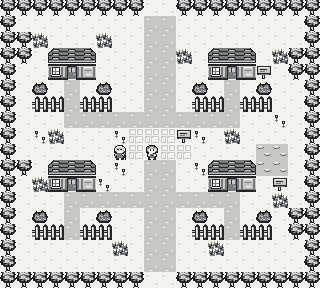
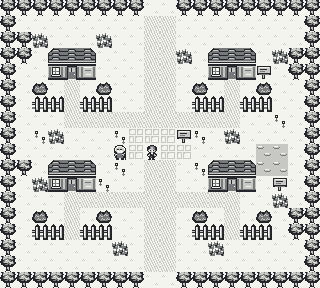
Redraw Echo characters and soften Wurzelheim style study

Changed region(s): [[0.1875, 0.0312, 0.75, 0.4688], [0.1875, 0.5, 0.75, 0.9688]]

diff --git a/echo-chroniken/docs/gb-classic/klassik-demo.html b/echo-chroniken/docs/gb-classic/klassik-demo.html
@@ -1,6 +1,6 @@
 <!doctype html><html lang="de"><head><meta charset="utf-8" />
 <meta name="viewport" content="width=device-width,initial-scale=1,minimum-scale=1" />
-<title>Echo-Chroniken · Game Boy Grafiktest V6</title>
+<title>Echo-Chroniken · Game Boy Grafiktest V7</title>
 <style>
 :root{color-scheme:dark}
 *{box-sizing:border-box}
@@ -30,7 +30,7 @@ h1{font-size:18px}select,button{padding:9px 10px}}
 :fullscreen body{max-width:none;width:100vw;height:100vh}
 :fullscreen #view{max-height:76vh}
 </style></head><body>
-<h1>🎮 Echo-Chroniken · Game Boy · Grafik V6</h1>
+<h1>🎮 Echo-Chroniken · Game Boy · Grafik V7</h1>
 <div class="subtitle">Stiltest, noch nicht das Hauptspiel · 4 Graustufen · feste 16px-Grafikbibliothek · Kamera folgt deiner Figur.</div>
 <div class="controls">
 <label for="scene">Karte:</label><select id="scene"></select>
@@ -58,10 +58,10 @@ h1{font-size:18px}select,button{padding:9px 10px}}
 'use strict';
 const DATA={"version":"1.0","scenes":{"Wurzelheim":{"width":20,"height":18,"rows":["44444444400444444444","40000000011000000004","44200020011000000004","440abc0001120abc0244","400efd0001100efd9044","40301030011030103004","40551550011055155004","40001111111111100B04","40B2000BCCC9B0200004","4000000xCyCC00006604","440abc0B0110Babc6604","402efdB001100efd0904","40001111111111100204","40301030011030103044","40551550011055155044","40000002011002000004","40000000011000000004","44444444400444444444"],"blocked":[[0,0],[1,0],[2,0],[3,0],[4,0],[5,0],[6,0],[7,0],[8,0],[11,0],[12,0],[13,0],[14,0],[15,0],[16,0],[17,0],[18,0],[19,0],[0,1],[19,1],[0,2],[1,2],[19,2],[0,3],[1,3],[3,3],[4,3],[5,3],[13,3],[14,3],[15,3],[18,3],[19,3],[0,4],[3,4],[5,4],[13,4],[15,4],[18,4],[19,4],[0,5],[2,5],[6,5],[12,5],[16,5],[19,5],[0,6],[2,6],[3,6],[5,6],[6,6],[12,6],[13,6],[15,6],[16,6],[19,6],[0,7],[19,7],[0,8],[19,8],[0,9],[16,9],[17,9],[19,9],[0,10],[1,10],[3,10],[4,10],[5,10],[13,10],[14,10],[15,10],[16,10],[17,10],[19,10],[0,11],[3,11],[5,11],[13,11],[15,11],[19,11],[0,12],[19,12],[0,13],[2,13],[6,13],[12,13],[16,13],[18,13],[19,13],[0,14],[2,14],[3,14],[5,14],[6,14],[12,14],[13,14],[15,14],[16,14],[18,14],[19,14],[0,15],[19,15],[0,16],[19,16],[0,17],[1,17],[2,17],[3,17],[4,17],[5,17],[6,17],[7,17],[8,17],[11,17],[12,17],[13,17],[14,17],[15,17],[16,17],[17,17],[18,17],[19,17]],"doorLinks":{"4,4":"Wohnhaus","14,4":"Heilstation","4,11":"Schmiede","14,11":"Laden"},"worldExits":{"north":"Route","south":"Route"}},"Route":{"width":20,"height":18,"rows":["44444444400444444444","44000000000000000044","44444400000000444444","44444400000000444444","44444400000000444444","44000222000000000044","44000222000022220044","44000222000022220044","44000000000022220044","4400000900000x000044","44000222000055500044","44000222000000008044","44444000000022204444","44444000000022204444","44444000000022204444","4400000000y000000044","44000000000000000044","44444444400444444444"],"blocked":[[0,0],[1,0],[2,0],[3,0],[4,0],[5,0],[6,0],[7,0],[8,0],[11,0],[12,0],[13,0],[14,0],[15,0],[16,0],[17,0],[18,0],[19,0],[0,1],[1,1],[18,1],[19,1],[0,2],[1,2],[2,2],[3,2],[4,2],[5,2],[14,2],[15,2],[16,2],[17,2],[18,2],[19,2],[0,3],[1,3],[2,3],[3,3],[4,3],[5,3],[14,3],[15,3],[16,3],[17,3],[18,3],[19,3],[0,4],[1,4],[2,4],[3,4],[4,4],[5,4],[14,4],[15,4],[16,4],[17,4],[18,4],[19,4],[0,5],[1,5],[18,5],[19,5],[0,6],[1,6],[18,6],[19,6],[0,7],[1,7],[18,7],[19,7],[0,8],[1,8],[18,8],[19,8],[0,9],[1,9],[18,9],[19,9],[0,10],[1,10],[12,10],[13,10],[14,10],[18,10],[19,10],[0,11],[1,11],[16,11],[18,11],[19,11],[0,12],[1,12],[2,12],[3,12],[4,12],[16,12],[17,12],[18,12],[19,12],[0,13],[1,13],[2,13],[3,13],[4,13],[16,13],[17,13],[18,13],[19,13],[0,14],[1,14],[2,14],[3,14],[4,14],[16,14],[17,14],[18,14],[19,14],[0,15],[1,15],[18,15],[19,15],[0,16],[1,16],[18,16],[19,16],[0,17],[1,17],[2,17],[3,17],[4,17],[5,17],[6,17],[7,17],[8,17],[11,17],[12,17],[13,17],[14,17],[15,17],[16,17],[17,17],[18,17],[19,17]]},"Laden":{"width":12,"height":9,"rows":["hhhhhhhhhhhh","hgiiiiiggxgh","hggggggjjjjh","hggggggggggh","hggiiggiiggh","hggggggggggh","hgggggyggggh","hggggggggggh","hhhhhhfhhhhh"],"blocked":[[0,0],[1,0],[2,0],[3,0],[4,0],[5,0],[6,0],[7,0],[8,0],[9,0],[10,0],[11,0],[0,1],[2,1],[3,1],[4,1],[5,1],[6,1],[11,1],[0,2],[7,2],[8,2],[9,2],[10,2],[11,2],[0,3],[11,3],[0,4],[3,4],[4,4],[7,4],[8,4],[11,4],[0,5],[11,5],[0,6],[11,6],[0,7],[11,7],[0,8],[1,8],[2,8],[3,8],[4,8],[5,8],[7,8],[8,8],[9,8],[10,8],[11,8]]},"Heilstation":{"width":14,"height":9,"rows":["hhhhhhhhhhhhhh","hggggggngxgggh","hgvjjjjjjjjvgh","hggggggggggggh","hggggggggggggh","hggllggggllggh","hggggggygggggh","hggggggggggggh","hhhhhhhfhhhhhh"],"blocked":[[0,0],[1,0],[2,0],[3,0],[4,0],[5,0],[6,0],[7,0],[8,0],[9,0],[10,0],[11,0],[12,0],[13,0],[0,1],[7,1],[13,1],[0,2],[2,2],[3,2],[4,2],[5,2],[6,2],[7,2],[8,2],[9,2],[10,2],[11,2],[13,2],[0,3],[13,3],[0,4],[13,4],[0,5],[3,5],[4,5],[9,5],[10,5],[13,5],[0,6],[13,6],[0,7],[13,7],[0,8],[1,8],[2,8],[3,8],[4,8],[5,8],[6,8],[8,8],[9,8],[10,8],[11,8],[12,8],[13,8]]},"Schmiede":{"width":12,"height":9,"rows":["hhhhhhhhhhhh","hgiigggggggh","hggugggxgogh","hggggggggggh","hgggggpggggh","hggggggggggh","hgggggyggqgh","hggggggggggh","hhhhhhfhhhhh"],"blocked":[[0,0],[1,0],[2,0],[3,0],[4,0],[5,0],[6,0],[7,0],[8,0],[9,0],[10,0],[11,0],[0,1],[2,1],[3,1],[11,1],[0,2],[3,2],[9,2],[11,2],[0,3],[11,3],[0,4],[6,4],[11,4],[0,5],[11,5],[0,6],[9,6],[11,6],[0,7],[11,7],[0,8],[1,8],[2,8],[3,8],[4,8],[5,8],[7,8],[8,8],[9,8],[10,8],[11,8]]},"Teamtausch":{"width":12,"height":9,"rows":["hhhhhhhhhhhh","hggmmgwwwggh","hggggggggggh","hgggggxggggh","hggggggggggh","hggjggggjggh","hgggggyggggh","hggggggggggh","hhhhhhfhhhhh"],"blocked":[[0,0],[1,0],[2,0],[3,0],[4,0],[5,0],[6,0],[7,0],[8,0],[9,0],[10,0],[11,0],[0,1],[3,1],[4,1],[6,1],[7,1],[8,1],[11,1],[0,2],[11,2],[0,3],[11,3],[0,4],[11,4],[0,5],[3,5],[8,5],[11,5],[0,6],[11,6],[0,7],[11,7],[0,8],[1,8],[2,8],[3,8],[4,8],[5,8],[7,8],[8,8],[9,8],[10,8],[11,8]]},"Wohnhaus":{"width":10,"height":8,"rows":["hhhhhhhhhh","hgsggggigh","hggggggggh","hggggggggh","hggggkgggh","hgvggylggh","hggggggggh","hhhhhfhhhh"],"blocked":[[0,0],[1,0],[2,0],[3,0],[4,0],[5,0],[6,0],[7,0],[8,0],[9,0],[0,1],[2,1],[7,1],[9,1],[0,2],[9,2],[0,3],[9,3],[0,4],[5,4],[9,4],[0,5],[2,5],[6,5],[9,5],[0,6],[9,6],[0,7],[1,7],[2,7],[3,7],[4,7],[6,7],[7,7],[8,7],[9,7]]}},"symbols":{"0":"floor","1":"path","2":"grass","3":"bush","4":"tree","5":"fence","6":"water_a","7":"water_b","8":"rock","9":"sign","a":"roof_l","b":"roof_m","c":"roof_r","d":"wall","e":"window","f":"door","g":"room_floor","h":"room_wall","i":"bookshelf","j":"counter","k":"table","l":"chair","m":"computer","n":"heal_pod","o":"forge","p":"anvil","q":"crate","r":"barrel","s":"bed","t":"stairs","u":"workbench","v":"plant","w":"capsule","x":"npc","y":"player","z":"water_edge","A":"hedge","B":"flower","C":"floor_stone"}},MANIFEST={"version":"1.0","name":"Echo-Chroniken GB-Klassik","license":"Original artwork, project-owned; inspired by constraints, not copied sprites","palette":["#f4f4ef","#c7c8c4","#777a7b","#24262b"],"tileSize":16,"sprites":{"floor":{"atlasIndex":0,"collision":false},"path":{"atlasIndex":1,"collision":false},"grass":{"atlasIndex":2,"collision":false},"bush":{"atlasIndex":3,"collision":true},"tree":{"atlasIndex":4,"collision":true},"fence":{"atlasIndex":5,"collision":true},"water_a":{"atlasIndex":6,"collision":true},"water_b":{"atlasIndex":7,"collision":true},"rock":{"atlasIndex":8,"collision":true},"sign":{"atlasIndex":9,"collision":false},"roof_l":{"atlasIndex":10,"collision":true},"roof_m":{"atlasIndex":11,"collision":true},"roof_r":{"atlasIndex":12,"collision":true},"wall":{"atlasIndex":13,"collision":true},"window":{"atlasIndex":14,"collision":true},"door":{"atlasIndex":15,"collision":false},"room_floor":{"atlasIndex":16,"collision":false},"room_wall":{"atlasIndex":17,"collision":true},"bookshelf":{"atlasIndex":18,"collision":true},"counter":{"atlasIndex":19,"collision":true},"table":{"atlasIndex":20,"collision":true},"chair":{"atlasIndex":21,"collision":true},"computer":{"atlasIndex":22,"collision":true},"heal_pod":{"atlasIndex":23,"collision":true},"forge":{"atlasIndex":24,"collision":true},"anvil":{"atlasIndex":25,"collision":true},"crate":{"atlasIndex":26,"collision":true},"barrel":{"atlasIndex":27,"collision":true},"bed":{"atlasIndex":28,"collision":true},"stairs":{"atlasIndex":29,"collision":false},"workbench":{"atlasIndex":30,"collision":true},"plant":{"atlasIndex":31,"collision":true},"capsule":{"atlasIndex":32,"collision":true},"npc":{"atlasIndex":33,"collision":false},"player":{"atlasIndex":34,"collision":false},"water_edge":{"atlasIndex":35,"collision":true},"hedge":{"atlasIndex":36,"collision":true},"flower":{"atlasIndex":37,"collision":false},"floor_stone":{"atlasIndex":38,"collision":false}},"sourceReferences":["https://www.peterhajas.com/blog/pokemon_rb_map_parsing/","https://opengameart.org/content/4-colour-interior-tileset","https://opengameart.org/content/4-colour-overworld-tileset"]};
 const atlas=new Image();
[2 lines of base64/hex data omitted]
 const actors=new Image(),foreground=new Image(),houses=new Image();
[5 lines of base64/hex data omitted]
 const TILE=16,view=document.getElementById("view"),ctx=view.getContext("2d");
 const sel=document.getElementById("scene"),mode=document.getElementById("mode");
@@ -155,6 +155,19 @@ function draw(now=performance.now()){
    else {
     if(id==='water_a'&&wave%2)id='water_b';
     tile(id,x,y);
+    if(id==='path' && scene==='Wurzelheim'){
+     // Break the perfect grid along lawn edges. Keep shared path borders flush.
+     const X=sx(x),Y=sy(y);
+     const connected=(dx,dy)=>['path','floor_stone','player','door'].includes(tileAt(map,x+dx,y+dy));
+     ctx.fillStyle=MANIFEST.palette[0];
+     for(let offset=0;offset<16;offset++){
+      const width=1+((x*11+y*7+(offset>>2)*3)%4);
+      if(!connected(-1,0))ctx.fillRect(X,Y+offset,width,1);
+      if(!connected(1,0))ctx.fillRect(X+16-width,Y+offset,width,1);
+      if(!connected(0,-1))ctx.fillRect(X+offset,Y,1,width);
+      if(!connected(0,1))ctx.fillRect(X+offset,Y+16-width,1,width);
+     }
+    }
     if(id==='fence'){
      // One modular post with neighbour-aware rails: no rails dangling into gates.
      tile(ground,x,y);

diff --git a/echo-chroniken/project/tools/gb-kit/gb_actors.py b/echo-chroniken/project/tools/gb-kit/gb_actors.py
@@ -8,21 +8,61 @@ P=['#f4f4ef','#c7c8c4','#777a7b','#24262b']
 def centered(rows):
  assert len(rows)==16 and all(len(r)<=16 for r in rows)
  return [r.center(16,'.') for r in rows]
-FRONT=centered([
- '', '333333', '332222233', '32221112223',
- '322111111123', '310030030013', '310030030013', '331000000133',
- '333100001333', '330001333', '3102222013', '3102332013',
- '3322222233', '33222233', '331..133', '333..333'])
-BACK=centered([
- '', '333333', '332222233', '32221112223',
- '322222222223', '322222222223', '322222222223', '332222222233',
- '333222223333', '330000333', '3122222213', '3123332213',
- '3321111233', '33222233', '331..133', '333..333'])
-SIDE=centered([
- '', '33333', '33222233', '322112223',
- '3222111133', '3221103013', '32211030133', '33211000013',
- '3333100033', '33200033', '32120113', '32123113',
- '33222333', '3322233', '331133', '333333'])
+# Asymmetric fringe, two-pixel eyes, scarf knot and separate sleeves.
+FRONT=[
+ '................',
+ '......3333......',
+ '....33222233....',
+ '...3332112233...',
+ '...3332112233...',
+ '...3310111233...',
+ '...3103103123...',
+ '....30110113....',
+ '.....331133.....',
+ '....33300333....',
+ '...3313323133...',
+ '...3013333103...',
+ '....33323333....',
+ '.....323333.....',
+ '.....33.33......',
+ '....333.333.....',
+]
+BACK=[
+ '................',
+ '......3333......',
+ '....33222233....',
+ '...3321112223...',
+ '...3221122223...',
+ '...3222222223...',
+ '...3322222233...',
+ '....33322333....',
+ '.....333333.....',
+ '....33000333....',
+ '...3313323133...',
+ '...3112113103...',
+ '....33323333....',
+ '.....323333.....',
+ '.....33.33......',
+ '....333.333.....',
+]
+SIDE=[
+ '................',
+ '.....33333......',
+ '....32222233....',
+ '...3221122223...',
+ '...3222222113...',
+ '...3233330133...',
+ '...3323010313...',
+ '....323011113...',
+ '.....3331133....',
+ '.....330033.....',
+ '....3312223.....',
+ '....3322313.....',
+ '.....322333.....',
+ '.....3233.......',
+ '.....3333.......',
+ '.....33333......',
+]
 
 def pixels(rows):
  assert len(rows)==16 and all(len(r)==16 for r in rows)
@@ -42,7 +82,7 @@ def actor(direction,frame):
    a,b=(4,9) if frame==1 else (9,4)
    d.rectangle((5,12,9,12),fill=P[2]);d.rectangle((a,13,a+2,15),fill=P[3])
    d.rectangle((b,13,b+1,14),fill=P[3]);d.point((b,13),fill=P[1])
-   d.rectangle((3 if frame==1 else 11,10,4 if frame==1 else 12,11),fill=P[0])
+   d.point((4 if frame==1 else 11,11),fill=P[1])
   else:
    d.rectangle((5,12,9,12),fill=P[2])
    if frame==1:
@@ -63,11 +103,12 @@ def npc(kind):
    '333100001333','332222233','31022222013','31322222313',
    '3322222233','3322222233','333..333','333..333']))
   d=ImageDraw.Draw(im);d.line((13,9,13,15),fill=P[3])
- else: # artisan: wide shoulders, cropped hair and a bright apron
-  d.rectangle((4,2,11,4),fill=P[3]);d.rectangle((5,3,10,3),fill=P[2])
-  d.rectangle((2,9,13,11),fill=P[3]);d.rectangle((3,10,4,12),fill=P[1])
-  d.rectangle((11,10,12,12),fill=P[1]);d.rectangle((5,9,10,13),fill=P[0])
-  d.rectangle((6,11,9,12),fill=P[2])
+ else:
+  im=pixels(centered([
+   '', '33333','3323333','32222223','332222333',
+   '310011103','310310313','331111133','33311333',
+   '333323333','331010133','310000013','330000033',
+   '332222233','333..333','333..333']))
  return im
 
 def build(out):

diff --git a/echo-chroniken/project/tools/gb-kit/build_preview.py b/echo-chroniken/project/tools/gb-kit/build_preview.py
@@ -17,7 +17,7 @@ payload=json.dumps(js,ensure_ascii=False,separators=(",",":"))
 manifest=json.dumps(tile,ensure_ascii=False,separators=(",",":"))
 html="""<!doctype html><html lang="de"><head><meta charset="utf-8" />
 <meta name="viewport" content="width=device-width,initial-scale=1,minimum-scale=1" />
-<title>Echo-Chroniken · Game Boy Grafiktest V6</title>
+<title>Echo-Chroniken · Game Boy Grafiktest V7</title>
 <style>
 :root{color-scheme:dark}
 *{box-sizing:border-box}
@@ -47,7 +47,7 @@ h1{font-size:18px}select,button{padding:9px 10px}}
 :fullscreen body{max-width:none;width:100vw;height:100vh}
 :fullscreen #view{max-height:76vh}
 </style></head><body>
-<h1>🎮 Echo-Chroniken · Game Boy · Grafik V6</h1>
+<h1>🎮 Echo-Chroniken · Game Boy · Grafik V7</h1>
 <div class="subtitle">Stiltest, noch nicht das Hauptspiel · 4 Graustufen · feste 16px-Grafikbibliothek · Kamera folgt deiner Figur.</div>
 <div class="controls">
 <label for="scene">Karte:</label><select id="scene"></select>
@@ -172,6 +172,19 @@ function draw(now=performance.now()){
    else {
     if(id==='water_a'&&wave%2)id='water_b';
     tile(id,x,y);
+    if(id==='path' && scene==='Wurzelheim'){
+     // Break the perfect grid along lawn edges. Keep shared path borders flush.
+     const X=sx(x),Y=sy(y);
+     const connected=(dx,dy)=>['path','floor_stone','player','door'].includes(tileAt(map,x+dx,y+dy));
+     ctx.fillStyle=MANIFEST.palette[0];
+     for(let offset=0;offset<16;offset++){
+      const width=1+((x*11+y*7+(offset>>2)*3)%4);
+      if(!connected(-1,0))ctx.fillRect(X,Y+offset,width,1);
+      if(!connected(1,0))ctx.fillRect(X+16-width,Y+offset,width,1);
+      if(!connected(0,-1))ctx.fillRect(X+offset,Y,1,width);
+      if(!connected(0,1))ctx.fillRect(X+offset,Y+16-width,1,width);
+     }
+    }
     if(id==='fence'){
      // One modular post with neighbour-aware rails: no rails dangling into gates.
      tile(ground,x,y);

diff --git a/echo-chroniken/project/tools/gb-kit/gb_art_v6.py b/echo-chroniken/project/tools/gb-kit/gb_art_v6.py
@@ -25,6 +25,14 @@ def house(kind=0):
  # Door remains centered on the original collision/warp tile x+1.
  b(18,25,12,14,3);b(19,26,10,12,2);b(20,27,8,5,1);b(23,27,1,5,3)
  b(20,33,8,4,2);b(27,34,1,1,0);b(17,38,14,2,0);b(18,39,12,1,2)
+ if kind==0:
+  # Offset gable and timber porch: a different outline from the shops.
+  d.polygon([(0,22),(6,15),(15,6),(29,17),(33,22)],fill=P[3])
+  d.polygon([(3,21),(15,9),(28,21)],fill=P[1])
+  d.line((6,21,15,12,25,21),fill=P[2],width=2)
+  b(13,16,6,5,3);b(14,17,4,3,0)
+  b(6,33,8,2,2);b(6,35,8,2,3)
+  d.point((8,33),fill=P[0]);d.point((11,33),fill=P[0])
  if kind==1: # healing cottage: original four-point light, no franchise emblem
   b(35,26,8,8,3);d.polygon([(39,27),(40,29),(42,30),(40,31),(39,33),(38,31),(36,30),(38,29)],fill=P[0])
  if kind==2: # smith chimney and hammer plaque
@@ -57,8 +65,10 @@ def upgrade(name,old):
  if name=='floor':
   for x,y in [(2,4),(11,12)]:d.line((x,y,x+1,y-1,x+2,y),fill=P[1])
  elif name=='path':
-  b(0,0,16,16,1)
-  for x,y in [(3,3),(11,10),(6,14)]:d.line((x,y,x+1,y),fill=P[0])
+  for y in range(16):
+   for x in range(16):
+    if (x+2*y)%5 in (0,2):d.point((x,y),fill=P[1])
+  for x,y in [(3,3),(11,10),(6,14)]:d.line((x,y,x+1,y),fill=P[1])
  elif name=='tree':
   a=tree();im.paste(a,(0,-8),a)
  elif name=='grass':

diff --git a/echo-chroniken/project/qa/gb-rapid-turn-browser.py b/echo-chroniken/project/qa/gb-rapid-turn-browser.py
@@ -14,7 +14,10 @@ with sync_playwright() as p:
  assert page.evaluate('actorPose().y===8'),'First step must remain horizontal'
  page.evaluate('window.dispatchEvent(new Event("resize"))')
  assert page.evaluate('actorPose().frame') in (1,2)
- page.clock.run_for(90)
+ # A virtual clock can land between browser animation callbacks.
+ for _ in range(12):
+  if page.evaluate("py===9"):break
+  page.clock.run_for(20)
  assert page.evaluate('actorPose().x===10 && py===9'),'Turn must start only at first tile boundary'
  page.clock.run_for(200);assert page.evaluate('actorPose().frame===0')
  b.close();print('GB_RAPID_TURN_PASS')
